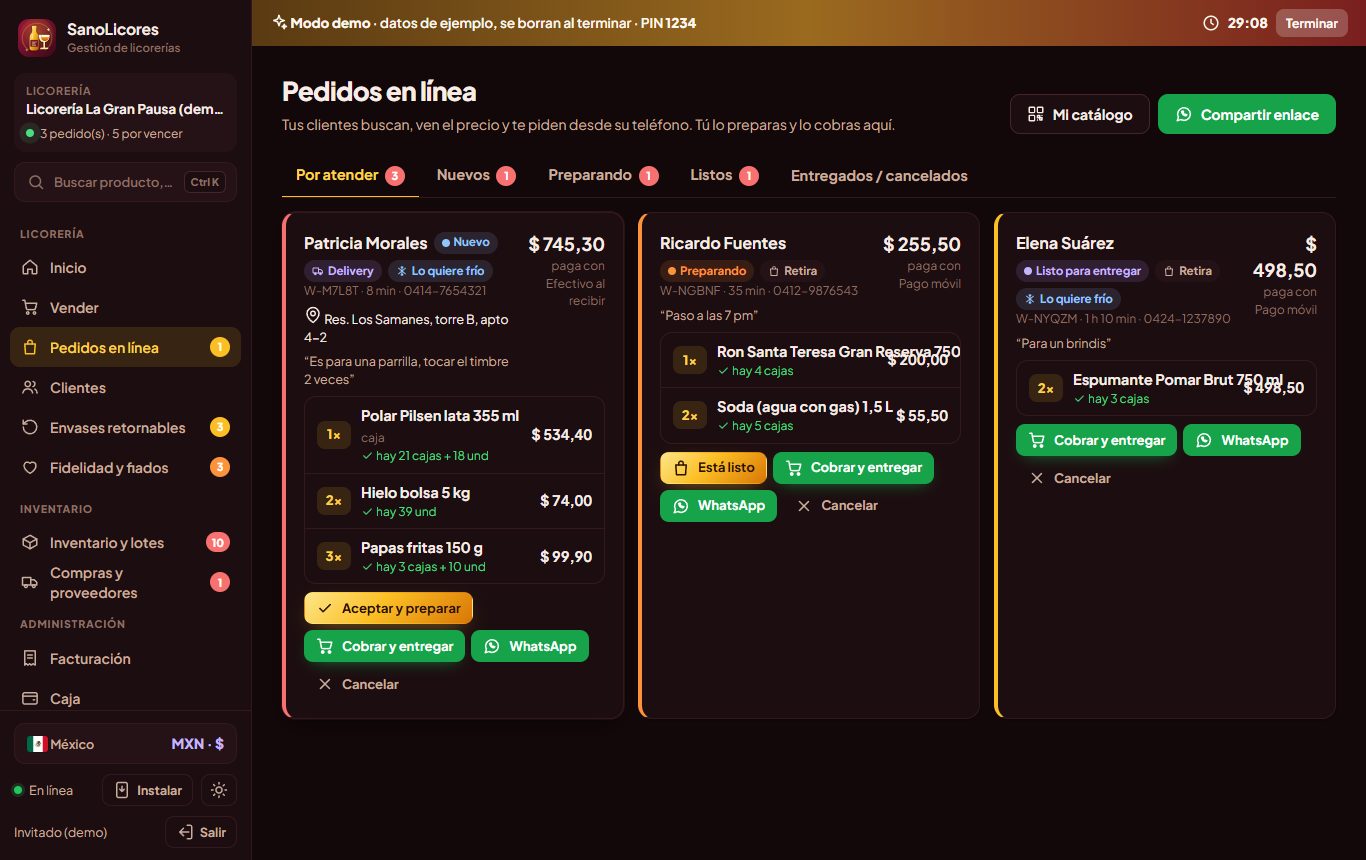
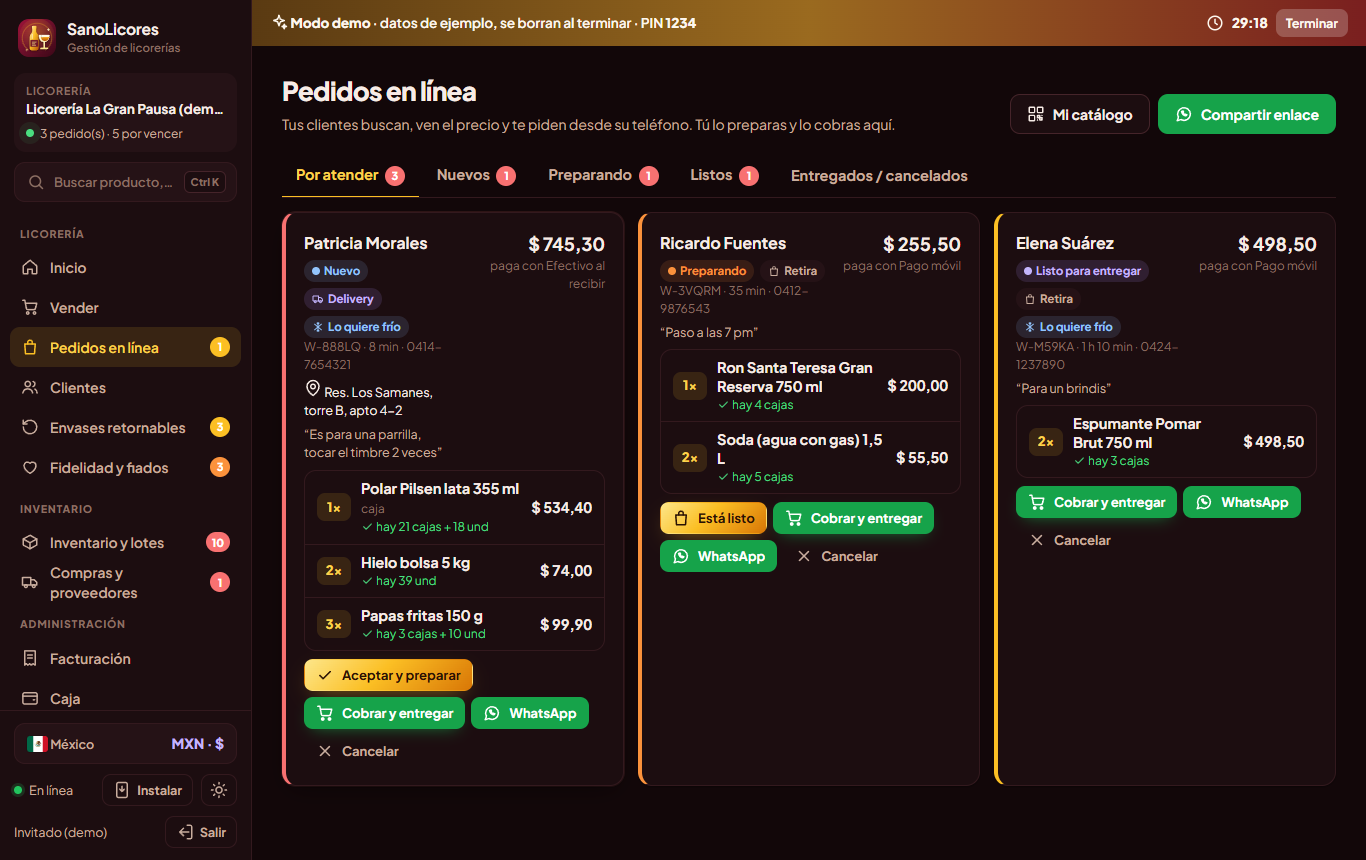
Pulido visual: montos sin cortes, gráfico por día, pedidos, inicio y teléfono
- Montos con espacio fijo y celdas que no se parten
- Gráfico de ventas por día con escala correcta y fechas legibles en teléfono
- Tarjetas de pedidos: nombre completo sin montarse sobre el precio
- Inicio: aviso de licencia como tarjeta e indicadores parejos
- Barra superior del teléfono con el nombre visible; ficha y envases apilados
- Botón Elegir cliente y pestañas de ajustes que caben

diff --git a/public/css/app.css b/public/css/app.css
@@ -1708,7 +1708,9 @@ button.style-card { display: flex; gap: 8px; align-items: center; cursor: pointe
 
 /* Cobrar */
 .cart-client { display: flex; gap: 8px; align-items: center; }
-.cart-ctx { display: flex; flex-direction: column; gap: 6px; }
+.cart-ctx { display: flex; flex-direction: column; align-items: stretch; gap: 6px; }
+.cart-ctx > .row, .cart-ctx > .cart-client { width: 100%; }
+.cart-ctx .btn-icon { flex: 0 0 auto; justify-content: center; }
 .cart-extra { display: flex; flex-direction: column; gap: 8px; margin-bottom: 8px; }
 .tip-row { display: flex; gap: 6px; align-items: center; flex-wrap: wrap; }
 .tip-in { display: inline-flex; align-items: center; gap: 4px; }
@@ -2116,3 +2118,31 @@ button.style-card { display: flex; gap: 8px; align-items: center; cursor: pointe
   .shop-item { flex-wrap: wrap; }
   .shop-buy { flex: 1 1 100%; flex-direction: row; justify-content: flex-end; flex-wrap: wrap; }
 }
+
+/* Montos: la moneda y la cifra siempre en la misma línea */
+td.num, th.num { white-space: nowrap; }
+
+/* Inicio: aviso de licencia como tarjeta y los 6 indicadores parejos */
+.lic-banner { background: var(--warning-soft); color: var(--warning); border: 1px solid color-mix(in srgb, var(--warning) 25%, transparent); border-radius: var(--radius); margin-bottom: 14px; }
+@media (min-width: 900px) { #d-kpis { grid-template-columns: repeat(3, minmax(0, 1fr)); } }
+@media (min-width: 1500px) { #d-kpis { grid-template-columns: repeat(6, minmax(0, 1fr)); } }
+
+/* Gráfico de ventas por día: la columna no lleva el fondo de las barras horizontales */
+.bars .bar { background: none; border-radius: 0; min-width: 0; }
+.kpis-4 { grid-template-columns: repeat(2, minmax(0, 1fr)); }
+@media (min-width: 900px) { .kpis-4 { grid-template-columns: repeat(4, minmax(0, 1fr)); } }
+/* Pedidos: nombre completo (hasta 2 líneas), precio y total sin partirse */
+.oline-n { display: block; line-height: 1.3; overflow-wrap: anywhere; }
+.oline > b.num { flex: none; white-space: nowrap; }
+.order-sum { flex: none; max-width: 150px; }
+.order-sum > b { white-space: nowrap; }
+.bars .bar i { flex-shrink: 0; }
+
+/* Teléfono: la tasa compacta para que se lea el nombre de la app */
+@media (max-width: 440px) { .topbar .rate-cur, .topbar .rate-bcv, .topbar [data-install] { display: none; } .topbar { gap: 6px; } }
+
+/* Ficha en teléfono: avatar chico arriba, el nombre con todo el ancho */
+@media (max-width: 600px) { .mhead { align-items: flex-start; gap: 12px; } .mhead .avatar-xl { width: 48px; height: 48px; font-size: 17px; border-radius: 14px; } .mhead-name { font-size: 20px; } }
+.emp-value { flex-wrap: wrap; gap: 12px; }
+@media (max-width: 600px) { .emp-value { flex-direction: column; align-items: stretch; } }
+@media (max-width: 600px) { .bars { gap: 3px; } .bars.dense .bar span { visibility: hidden; } .bars.dense .bar:nth-child(5n+1) span { visibility: visible; } }

diff --git a/public/js/views/reports.js b/public/js/views/reports.js
@@ -137,7 +137,7 @@ export function mount(el) {
         <div class="card kpi"><div class="kpi-top"><span class="kpi-label">Clientes atendidos</span><span class="kpi-icon tone-info">${icon('users')}</span></div><div class="kpi-value">${c.clients.size}</div><div class="kpi-sub">${c.ventas.length ? num(c.ventas.filter((s) => s.memberId).length / c.ventas.length * 100, 0) : 0}% de ventas con cliente</div></div>
         <div class="card kpi"><div class="kpi-top"><span class="kpi-label">Envases recibidos</span><span class="kpi-icon tone-violet">${icon('rotate')}</span></div><div class="kpi-value">${c.empIn}</div><div class="kpi-sub">${c.empOut} entregados al proveedor${c.empLent ? ` · ${c.empLent > 0 ? '+' : ''}${c.empLent} prestados` : ''}</div></div>
       </div>
-      <div class="kpis kpis-sm">
+      <div class="kpis kpis-sm kpis-4">
         <div class="card kpi"><div class="kpi-top"><span class="kpi-label">Cobrado</span></div><div class="kpi-value">${usd(c.cash)}</div></div>
         <div class="card kpi"><div class="kpi-top"><span class="kpi-label">Gastos</span></div><div class="kpi-value">${usd(c.expenses)}</div></div>
         <div class="card kpi"><div class="kpi-top"><span class="kpi-label">Roturas, mermas y vencidos</span></div><div class="kpi-value ${c.loss > 0 ? 'text-danger' : ''}">${usd(c.loss)}</div><div class="kpi-sub">al costo</div></div>
@@ -148,7 +148,7 @@ export function mount(el) {
         <div class="card kpi"><div class="kpi-top"><span class="kpi-label">Puntos canjeados</span></div><div class="kpi-value">${usd(c.pointsDisc)}</div></div>
       </div>
       <div class="card" style="margin-bottom:16px"><div class="card-head"><div class="card-title">${icon('dollar')} Ventas por día</div></div>
-        ${showDays ? `<div class="bars">${c.perDay.map(([k, v]) => `<div class="bar" title="${fmtDate(k)}: ${usd(v)}"><i style="height:${v / maxI * 100}%"></i><span>${c.perDay.length > 14 ? k.slice(8) : shortDate(k)}</span></div>`).join('')}</div>` : `<p class="muted small">Total del período: ${usd(c.billed)}</p>`}</div>
+        ${showDays ? `<div class="bars${c.perDay.length > 14 ? ' dense' : ''}">${c.perDay.map(([k, v]) => `<div class="bar" title="${fmtDate(k)}: ${usd(v)}"><i style="height:calc((100% - 18px) * ${(v / maxI).toFixed(4)})"></i><span>${c.perDay.length > 14 ? k.slice(8) : shortDate(k)}</span></div>`).join('')}</div>` : `<p class="muted small">Total del período: ${usd(c.billed)}</p>`}</div>
       <div class="grid-2" style="margin-bottom:16px">
         <div class="card"><div class="card-title" style="margin-bottom:10px">${icon('trophy')} Productos más vendidos</div>${hbars(top(c.prodTotal, 10), (v) => usd(v))}</div>
         <div class="card"><div class="card-title" style="margin-bottom:10px">${icon('trend')} Productos que más ganancia dejan</div>${hbars(top(c.prodProfit, 10), (v) => usd(v))}</div>

diff --git a/public/js/views/orders.js b/public/js/views/orders.js
@@ -49,7 +49,7 @@ export function mount(el, { navigate, params = {} }) {
     const need = needOf(i, p);
     const have = p && isCombo(p) ? comboStock(p) : st;
     const ok = p && (p.trackStock === false && !isCombo(p) || have >= need);
-    return `<div class="oline"><span class="oline-q">${i.q}×</span><div class="grow" style="min-width:0"><b class="ellipsis">${esc(i.n || p?.name || 'Producto')}</b> <span class="t-sub">${i.k === 'caja' && p && !isCombo(p) && upb(p) > 1 ? 'caja' : ''}</span><div class="t-sub">${p ? (ok ? `<span class="text-success">${icon('check')} hay ${isCombo(p) ? have + ' combo(s)' : stockText(p)}</span>` : `<span class="text-danger">${icon('alert')} ${have > 0 ? `solo ${isCombo(p) ? have + ' combo(s)' : stockText(p)}` : 'agotado'}</span>`) : '<span class="text-danger">ya no está en el inventario</span>'}</div></div><b class="num">${usd((Number(i.p) || 0) * (Number(i.q) || 1))}</b></div>`;
+    return `<div class="oline"><span class="oline-q">${i.q}×</span><div class="grow" style="min-width:0"><b class="oline-n">${esc(i.n || p?.name || 'Producto')}</b><span class="t-sub">${i.k === 'caja' && p && !isCombo(p) && upb(p) > 1 ? 'caja' : ''}</span><div class="t-sub">${p ? (ok ? `<span class="text-success">${icon('check')} hay ${isCombo(p) ? have + ' combo(s)' : stockText(p)}</span>` : `<span class="text-danger">${icon('alert')} ${have > 0 ? `solo ${isCombo(p) ? have + ' combo(s)' : stockText(p)}` : 'agotado'}</span>`) : '<span class="text-danger">ya no está en el inventario</span>'}</div></div><b class="num">${usd((Number(i.p) || 0) * (Number(i.q) || 1))}</b></div>`;
   }
 
   function card(o) {
@@ -62,7 +62,7 @@ export function mount(el, { navigate, params = {} }) {
           <div class="t-sub">${esc(o.number || '')} · ${fmtAgo(o.createdAt)} · ${esc(o.phone || '')}${cl ? ` · <button class="linkish" data-cl="${cl.id}">ver cliente</button>` : ''}</div>
           ${o.mode === 'delivery' && o.address ? `<div class="small mt-xs">${icon('pin')} ${esc(o.address)}</div>` : ''}
           ${o.note ? `<div class="small mt-xs muted">“${esc(o.note)}”</div>` : ''}</div>
-        <div class="r"><b style="font-size:18px">${usd(o.total || 0)}</b>${bs(o.total || 0) ? `<div class="t-sub">${bs(o.total)}</div>` : ''}${o.payMethod ? `<div class="t-sub">paga con ${esc(o.payMethod)}</div>` : ''}</div>
+        <div class="r order-sum"><b style="font-size:18px">${usd(o.total || 0)}</b>${bs(o.total || 0) ? `<div class="t-sub">${bs(o.total)}</div>` : ''}${o.payMethod ? `<div class="t-sub">paga con ${esc(o.payMethod)}</div>` : ''}</div>
       </div>
       <div class="olines mt">${(o.items || []).map(itemRow).join('')}</div>
       ${missing && !['entregada', 'cancelada'].includes(st) ? `<div class="small text-danger mt-xs">${icon('alert')} Falta inventario: avísale y ofrécele otra marca.</div>` : ''}

diff --git a/public/js/views/empties.js b/public/js/views/empties.js
@@ -33,7 +33,7 @@ export function mount(el, { navigate, params = {} }) {
     if (!C.length) { $('#e-body').innerHTML = emptyState('rotate', 'Sin envases configurados', 'Agrega los tipos de envase retornable (botella 1/3, botella 1 L, gavera…) en Configuración → Envases.'); return; }
     const value = C.reduce((a, c) => a + store.emptiesStock(c.id) * (Number(c.deposit) || 0), 0);
     $('#e-body').innerHTML = `<div class="kpis kpis-sm">${C.map((c) => `<div class="card kpi"><div class="kpi-top"><span class="kpi-label">${esc(c.name)}</span><span class="kpi-icon tone-brand">${icon(ic(c))}</span></div><div class="kpi-value">${store.emptiesStock(c.id)}</div><div class="kpi-sub">en depósito · ${usd((Number(c.deposit) || 0))} c/u${lent[c.id] ? ` · <span class="text-warning">${lent[c.id]} prestados</span>` : ''}</div></div>`).join('')}</div>
-      <div class="card mt"><div class="between"><div><b>Valor de los vacíos en depósito: ${usd(value)}</b><div class="small muted">Es plata que tienes en botellas: entrégalos al proveedor cuando te traiga la mercancía.</div></div>
+      <div class="card mt"><div class="between emp-value"><div><b>Valor de los vacíos en depósito: ${usd(value)}</b><div class="small muted">Es plata que tienes en botellas: entrégalos al proveedor cuando te traiga la mercancía.</div></div>
         <div class="row row-wrap" style="gap:6px"><button class="btn btn-secondary btn-sm" id="e-sup">${icon('truck')} Entregar al proveedor</button><button class="btn btn-secondary btn-sm" id="e-count">${icon('clipboard')} Conteo</button><button class="btn btn-ghost btn-sm" id="e-print">${icon('print')} Imprimir</button></div></div></div>
       <div class="card mt"><div class="small muted">${icon('info')} Cómo funciona: al vender un producto retornable, la caja pregunta cuántos vacíos trae el cliente. Los que trae entran aquí; los que faltan se cobran como depósito o se le prestan (quedan en su cuenta hasta que los devuelva).</div></div>`;
     $('#e-sup').onclick = supplierModal;

diff --git a/public/js/views/dashboard.js b/public/js/views/dashboard.js
@@ -40,7 +40,7 @@ export function mount(el, { navigate }) {
     const fresh = store.newOrders;
     const lic = store.licenseDays;
     $('#d-ord').innerHTML = (list.length ? `<div class="banner req-banner"><span>${icon('bag')} <b>${list.length} pedido(s) en línea</b> por atender${fresh.length ? ` · ${fresh.length} nuevo(s)` : ''}: ${list.slice(0, 3).map((o) => `${esc((o.name || '').split(' ')[0])} (${o.items?.length || 0})`).join(', ')}</span><button class="btn btn-sm btn-primary" id="d-ord-go">Atender</button></div>` : '')
-      + (lic != null && lic <= 30 ? `<div class="banner offline-banner"><span>${icon('shield')} ${lic < 0 ? `La licencia de expendio de licores <b>venció</b> el ${fmtDate(store.settings.licenseExpires)}.` : `La licencia de expendio de licores vence ${lic === 0 ? '<b>hoy</b>' : `en <b>${lic} día(s)</b>`} (${fmtDate(store.settings.licenseExpires)}).`} Renuévala a tiempo.</span><button class="btn btn-sm btn-secondary" id="d-lic">Ver</button></div>` : '');
+      + (lic != null && lic <= 30 ? `<div class="banner lic-banner"><span>${icon('shield')} ${lic < 0 ? `La licencia de expendio de licores <b>venció</b> el ${fmtDate(store.settings.licenseExpires)}.` : `La licencia de expendio de licores vence ${lic === 0 ? '<b>hoy</b>' : `en <b>${lic} día(s)</b>`} (${fmtDate(store.settings.licenseExpires)}).`} Renuévala a tiempo.</span><button class="btn btn-sm btn-secondary" id="d-lic">Ver</button></div>` : '');
     $('#d-ord-go')?.addEventListener('click', () => navigate('pedidos'));
     $('#d-lic')?.addEventListener('click', () => navigate('ajustes', { tab: 'negocio' }));
   }

diff --git a/public/js/views/settings.js b/public/js/views/settings.js
@@ -9,7 +9,7 @@ import { isStandalone, bindInstallButtons } from '../install.js';
 import { CATEGORIES } from '../licor.js';
 import { slugify, publishShop, resetPublished, shopUrl } from '../ops.js';
 
-const SECTIONS = { negocio: 'Licorería', moneda: 'Moneda y precios', envases: 'Envases', vendedores: 'Vendedores', pedidos: 'Pedidos en línea', fidelidad: 'Fidelidad y alertas', recibos: 'Facturas', seguridad: 'Seguridad', apps: 'Instalar y respaldo' };
+const SECTIONS = { negocio: 'Licorería', moneda: 'Moneda', envases: 'Envases', vendedores: 'Vendedores', pedidos: 'Pedidos', fidelidad: 'Fidelidad', recibos: 'Facturas', seguridad: 'Seguridad', apps: 'Instalar y respaldo' };
 const sw = (name, on, title, sub) => `<label class="check box box-white"><span class="switch"><input type="checkbox" name="${name}" ${on ? 'checked' : ''}><span></span></span><span><b>${title}</b><br><small class="muted">${sub}</small></span></label>`;
 const save = (t) => `<div class="row" style="justify-content:flex-end"><button class="btn btn-primary">${icon('check')} ${t || 'Guardar'}</button></div>`;
 

diff --git a/public/js/utils.js b/public/js/utils.js
@@ -77,14 +77,14 @@ export function applyLocale(code, cur = null) {
 }
 applyLocale('VE');
 /** Monto en la moneda de trabajo: "$ 120.000" (COP), "S/ 85,00" (PEN)… */
-export const usd = (n) => `${LOC.sym} ${num(n, LOC.dec)}`;
+export const usd = (n) => `${LOC.sym} ${num(n, LOC.dec)}`;
 // ---------- Segunda moneda (opcional): p. ej. precios en $ y su equivalente en Bs a la tasa del día ----------
 let FX = null;
 /** fx: { enabled, sym, name, rate } — rate = cuánto vale 1 de la moneda de trabajo en la segunda moneda */
 export function setFx(fx) { FX = fx && fx.enabled && Number(fx.rate) > 0 ? { sym: fx.sym || 'Bs', name: fx.name || '', rate: Number(fx.rate) } : null; }
 export const fx = () => FX;
 /** Equivalente en la segunda moneda ("Bs 1.234,50") o '' si no está activa */
-export const bs = (n) => (FX ? `${FX.sym} ${num((Number(n) || 0) * FX.rate, 2)}` : '');
+export const bs = (n) => (FX ? `${FX.sym} ${num((Number(n) || 0) * FX.rate, 2)}` : '');
 export const money = usd;
 export function qtyFmt(n) {
   const v = Number(n) || 0;

diff --git a/public/js/bcv.js b/public/js/bcv.js
@@ -70,7 +70,7 @@ export function startBcv() {
 export function rateChip() {
   const fx = fxNow();
   const on = fx.enabled && Number(fx.rate) > 0;
-  return `${flagImg(loc().code)} ${esc(loc().cur)}${on ? ` <span class="rate-fx">${isVE() ? 'BCV ' : ''}${esc(fx.sym || 'Bs')} ${num(fx.rate, 2)}</span>` : ''}`;
+  return `${flagImg(loc().code)} <span class="rate-cur">${esc(loc().cur)}</span>${on ? ` <span class="rate-fx">${isVE() ? '<span class="rate-bcv">BCV </span>' : ''}${esc(fx.sym || 'Bs')} ${num(fx.rate, 2)}</span>` : ''}`;
 }
 
 const swHTML = (name, on, title, sub) => `<label class="check box box-white"><span class="switch"><input type="checkbox" name="${name}" ${on ? 'checked' : ''}><span></span></span><span><b>${title}</b><br><small class="muted">${sub}</small></span></label>`;

diff --git a/public/sw.js b/public/sw.js
@@ -1,5 +1,5 @@
 // SanoLicores — Service Worker (PWA, funcionamiento sin conexión)
-const VERSION = 'sanolicores-v1.0.1';
+const VERSION = 'sanolicores-v1.0.2';
 const SDK = 'https://www.gstatic.com/firebasejs/10.14.1/';
 const VIEWS = ['admin', 'card', 'cash', 'clients', 'dashboard', 'inventory', 'invoices', 'kiosk', 'loyalty', 'orders', 'pos', 'purchases', 'reports', 'empties', 'search', 'settings', 'shop'];
 const SHELL = [
